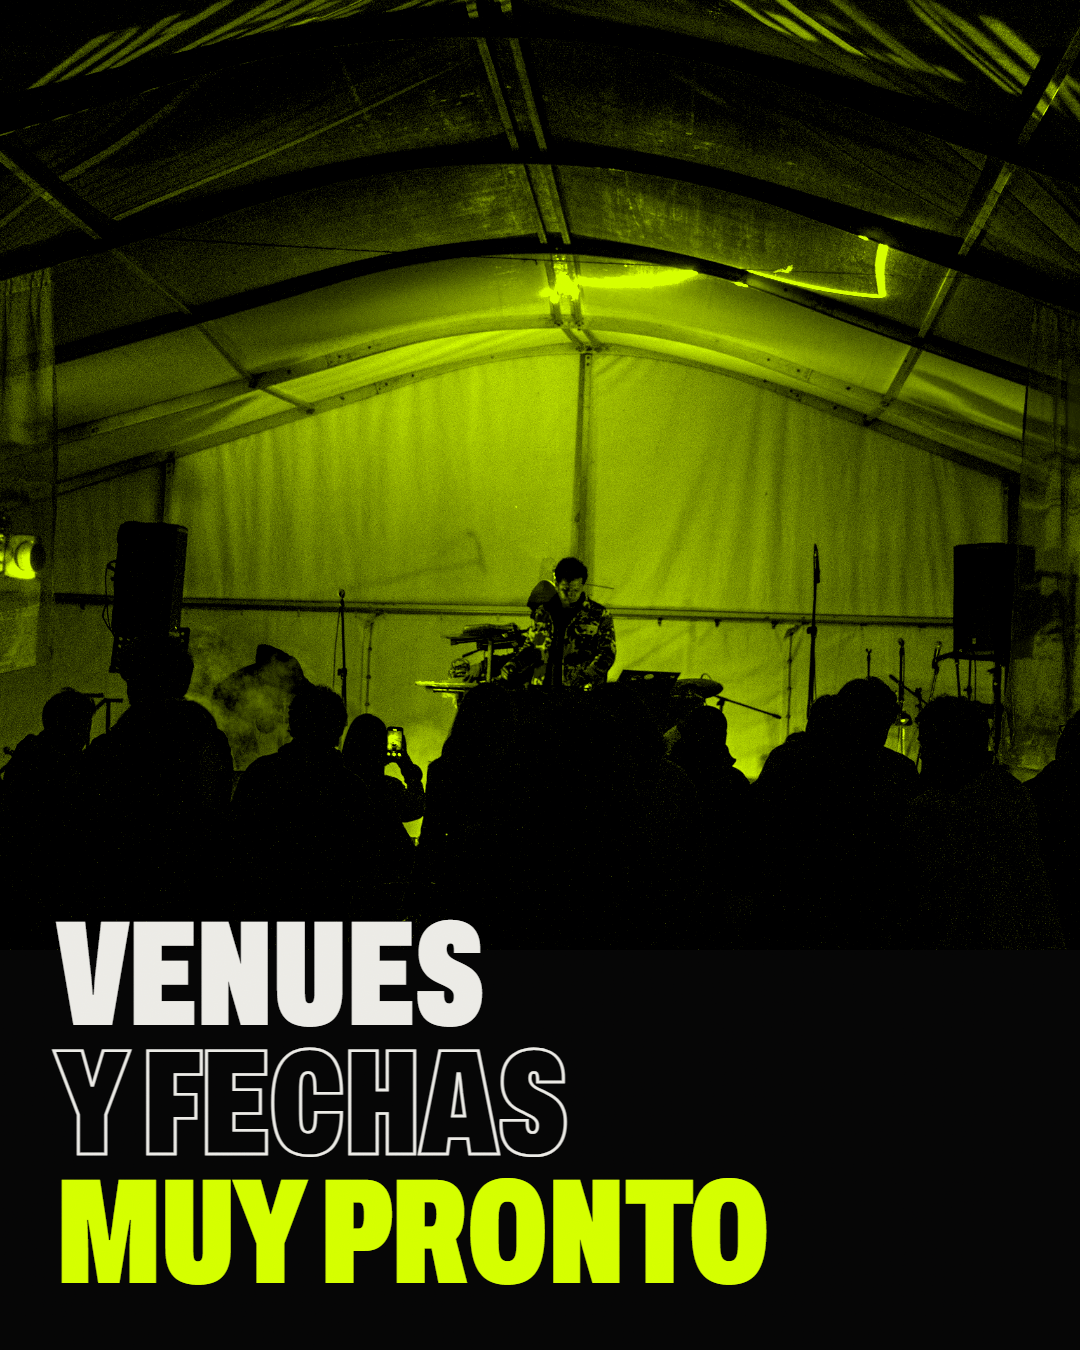
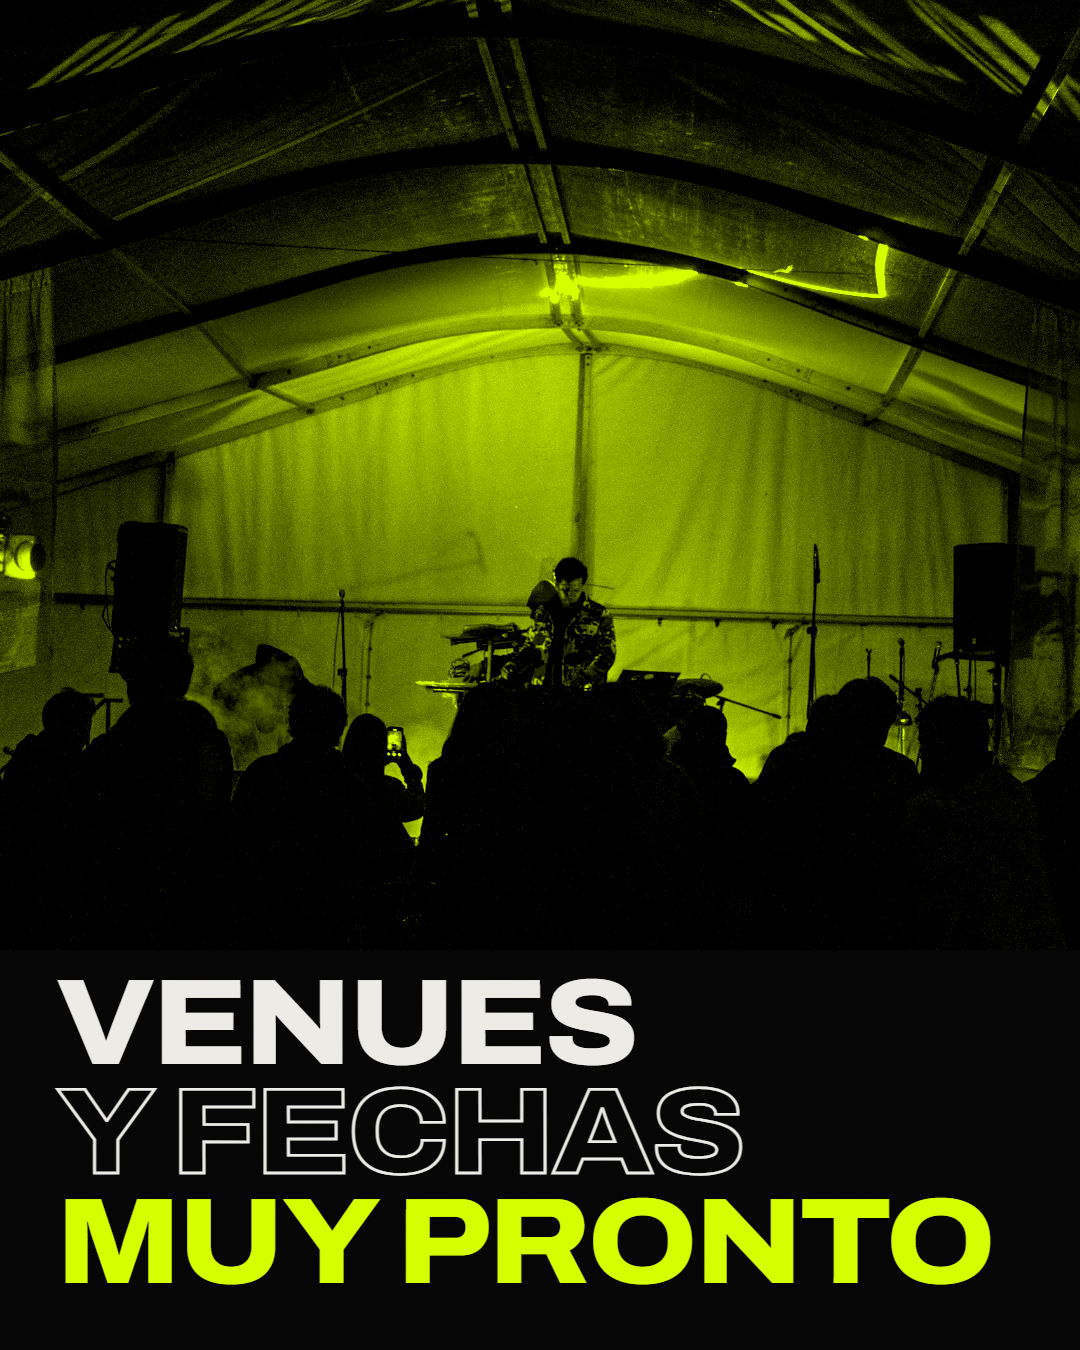
Takeover: tipografía ancha en las 3 slides + versión en enlaces de imágenes

Changed region(s): [[0.0306, 0.6844, 0.9167, 0.9644]]

diff --git a/ig/index.html b/ig/index.html
@@ -46,15 +46,15 @@ code{color:var(--acid);word-break:break-all}
   <p class="muted">Carrusel minimal de 3 slides en dos formatos: feed 4:5 y las mismas 3 como historias 9:16. Del 16 al 28 de noviembre de 2026, venues por anunciar.</p>
   <h2 style="font-size:32px">Feed · 4:5</h2>
   <div class="grid">
-    <figure><a class="open" href="takeover-feed-m1.png" target="_blank" rel="noopener" aria-label="Abrir en tamaño completo"><img src="takeover-feed-m1.png" alt="Da Get Up entre humo en duotono verde ácido, formato feed" loading="lazy"></a><figcaption><span class="mono">01</span><a class="dl mono" href="takeover-feed-m1.png" download>Bajar</a></figcaption></figure>
-    <figure><a class="open" href="takeover-feed-m2.png" target="_blank" rel="noopener" aria-label="Abrir en tamaño completo"><img src="takeover-feed-m2.png" alt="16 al 28 de noviembre de 2026, Medellín, formato feed" loading="lazy"></a><figcaption><span class="mono">02</span><a class="dl mono" href="takeover-feed-m2.png" download>Bajar</a></figcaption></figure>
-    <figure><a class="open" href="takeover-feed-m3.png" target="_blank" rel="noopener" aria-label="Abrir en tamaño completo"><img src="takeover-feed-m3.png" alt="escenario en vivo con público: venues y fechas muy pronto, formato feed" loading="lazy"></a><figcaption><span class="mono">03</span><a class="dl mono" href="takeover-feed-m3.png" download>Bajar</a></figcaption></figure>
+    <figure><a class="open" href="takeover-feed-m1.png?v=1520" target="_blank" rel="noopener" aria-label="Abrir en tamaño completo"><img src="takeover-feed-m1.png?v=1520" alt="Da Get Up entre humo en duotono verde ácido, formato feed" loading="lazy"></a><figcaption><span class="mono">01</span><a class="dl mono" href="takeover-feed-m1.png?v=1520" download>Bajar</a></figcaption></figure>
+    <figure><a class="open" href="takeover-feed-m2.png?v=1520" target="_blank" rel="noopener" aria-label="Abrir en tamaño completo"><img src="takeover-feed-m2.png?v=1520" alt="16 al 28 de noviembre de 2026, Medellín, formato feed" loading="lazy"></a><figcaption><span class="mono">02</span><a class="dl mono" href="takeover-feed-m2.png?v=1520" download>Bajar</a></figcaption></figure>
+    <figure><a class="open" href="takeover-feed-m3.png?v=1520" target="_blank" rel="noopener" aria-label="Abrir en tamaño completo"><img src="takeover-feed-m3.png?v=1520" alt="escenario en vivo con público: venues y fechas muy pronto, formato feed" loading="lazy"></a><figcaption><span class="mono">03</span><a class="dl mono" href="takeover-feed-m3.png?v=1520" download>Bajar</a></figcaption></figure>
   </div>
   <h2 style="font-size:32px">Historias · 9:16</h2>
   <div class="grid st">
-    <figure><a class="open" href="takeover-historia-n1.png" target="_blank" rel="noopener" aria-label="Abrir en tamaño completo"><img src="takeover-historia-n1.png" alt="Da Get Up entre humo en duotono verde ácido, formato historia" loading="lazy"></a><figcaption><span class="mono">01</span><a class="dl mono" href="takeover-historia-n1.png" download>Bajar</a></figcaption></figure>
-    <figure><a class="open" href="takeover-historia-n2.png" target="_blank" rel="noopener" aria-label="Abrir en tamaño completo"><img src="takeover-historia-n2.png" alt="16 al 28 de noviembre de 2026, Medellín, formato historia" loading="lazy"></a><figcaption><span class="mono">02</span><a class="dl mono" href="takeover-historia-n2.png" download>Bajar</a></figcaption></figure>
-    <figure><a class="open" href="takeover-historia-n3.png" target="_blank" rel="noopener" aria-label="Abrir en tamaño completo"><img src="takeover-historia-n3.png" alt="escenario en vivo con público: venues y fechas muy pronto, formato historia" loading="lazy"></a><figcaption><span class="mono">03</span><a class="dl mono" href="takeover-historia-n3.png" download>Bajar</a></figcaption></figure>
+    <figure><a class="open" href="takeover-historia-n1.png?v=1520" target="_blank" rel="noopener" aria-label="Abrir en tamaño completo"><img src="takeover-historia-n1.png?v=1520" alt="Da Get Up entre humo en duotono verde ácido, formato historia" loading="lazy"></a><figcaption><span class="mono">01</span><a class="dl mono" href="takeover-historia-n1.png?v=1520" download>Bajar</a></figcaption></figure>
+    <figure><a class="open" href="takeover-historia-n2.png?v=1520" target="_blank" rel="noopener" aria-label="Abrir en tamaño completo"><img src="takeover-historia-n2.png?v=1520" alt="16 al 28 de noviembre de 2026, Medellín, formato historia" loading="lazy"></a><figcaption><span class="mono">02</span><a class="dl mono" href="takeover-historia-n2.png?v=1520" download>Bajar</a></figcaption></figure>
+    <figure><a class="open" href="takeover-historia-n3.png?v=1520" target="_blank" rel="noopener" aria-label="Abrir en tamaño completo"><img src="takeover-historia-n3.png?v=1520" alt="escenario en vivo con público: venues y fechas muy pronto, formato historia" loading="lazy"></a><figcaption><span class="mono">03</span><a class="dl mono" href="takeover-historia-n3.png?v=1520" download>Bajar</a></figcaption></figure>
   </div>
   <h2 style="font-size:32px">Caption del post</h2>
   <div class="cap" id="cap2">MEDELLÍN TAKEOVER

diff --git a/ig/src/piece.html b/ig/src/piece.html
@@ -170,6 +170,7 @@ body{color:var(--bone);font-family:var(--cond);-webkit-font-smoothing:antialiase
 .mt .dk{position:absolute;inset:0;background:var(--acid)}
 .mt .dk img{width:100%;height:100%;object-fit:cover;filter:grayscale(1) contrast(1.45) brightness(.92);mix-blend-mode:multiply}
 .mt .big{position:absolute;left:56px;right:56px;font-weight:900;font-variation-settings:"wdth" 62;text-transform:uppercase;line-height:.8;letter-spacing:-.01em;margin:0;white-space:nowrap}
+.mt .big.wide{font-weight:800;font-variation-settings:"wdth" 112;letter-spacing:-.025em;line-height:.9}
 .mt .owl-ink{position:absolute;width:120px;filter:invert(1)}
 </style>
 
@@ -177,30 +178,30 @@ body{color:var(--bone);font-family:var(--cond);-webkit-font-smoothing:antialiase
 <section class="piece mt" id="m1">
   <div class="dk" style="bottom:500px"><img src="img/cover-07251.webp" style="object-position:50% 18%"></div>
   <img class="owl-ink" src="../../assets/img/owl.png" style="right:60px;top:60px">
-  <p class="big" style="bottom:52px;font-size:166px;line-height:.86"><span style="color:var(--bone)">Da Get Up</span><br><span style="color:transparent;-webkit-text-stroke:2.5px var(--bone)">Medellín</span><br><span style="color:var(--acid)">Takeover</span></p>
+  <p class="big wide" style="bottom:52px;font-size:142px;line-height:.9"><span style="color:var(--bone)">Da Get Up</span><br><span style="color:transparent;-webkit-text-stroke:2.5px var(--bone)">Medellín</span><br><span style="color:var(--acid)">Takeover</span></p>
 </section>
 <section class="piece story mt" id="n1">
   <div class="dk" style="bottom:750px"><img src="img/cover-07251.webp" style="object-position:50% 18%"></div>
   <img class="owl-ink" src="../../assets/img/owl.png" style="right:60px;top:170px">
-  <p class="big" style="bottom:290px;font-size:190px;line-height:.86"><span style="color:var(--bone)">Da Get Up</span><br><span style="color:transparent;-webkit-text-stroke:2.5px var(--bone)">Medellín</span><br><span style="color:var(--acid)">Takeover</span></p>
+  <p class="big wide" style="bottom:290px;font-size:142px;line-height:.9"><span style="color:var(--bone)">Da Get Up</span><br><span style="color:transparent;-webkit-text-stroke:2.5px var(--bone)">Medellín</span><br><span style="color:var(--acid)">Takeover</span></p>
 </section>
 
 <!-- 2 · La fecha -->
 <section class="piece mt" id="m2">
-  <p class="big acid" style="top:470px;font-size:300px">16—28.11</p>
+  <p class="big wide acid" style="top:560px;font-size:176px">16—28.11</p>
 </section>
 <section class="piece story mt" id="n2">
-  <p class="big acid" style="top:790px;font-size:300px">16—28.11</p>
+  <p class="big wide acid" style="top:870px;font-size:176px">16—28.11</p>
 </section>
 
 <!-- 3 · Booking -->
 <section class="piece mt" id="m3">
   <div class="dk" style="bottom:400px"><img src="img/close-07249.webp" style="object-position:50% 62%;filter:grayscale(1) contrast(1.35) brightness(1.3)"></div>
-  <p class="big" style="bottom:52px;font-size:150px;line-height:.86"><span style="color:var(--bone)">Venues</span><br><span style="color:transparent;-webkit-text-stroke:2.5px var(--bone)">y fechas</span><br><span style="color:var(--acid)">muy pronto</span></p>
+  <p class="big wide" style="bottom:52px;font-size:122px;line-height:.9"><span style="color:var(--bone)">Venues</span><br><span style="color:transparent;-webkit-text-stroke:2.5px var(--bone)">y fechas</span><br><span style="color:var(--acid)">muy pronto</span></p>
 </section>
 <section class="piece story mt" id="n3">
   <div class="dk" style="bottom:660px"><img src="img/close-07249.webp" style="object-position:50% 62%;filter:grayscale(1) contrast(1.35) brightness(1.3)"></div>
-  <p class="big" style="bottom:290px;font-size:190px;line-height:.86"><span style="color:var(--bone)">Venues</span><br><span style="color:transparent;-webkit-text-stroke:2.5px var(--bone)">y fechas</span><br><span style="color:var(--acid)">muy pronto</span></p>
+  <p class="big wide" style="bottom:290px;font-size:122px;line-height:.9"><span style="color:var(--bone)">Venues</span><br><span style="color:transparent;-webkit-text-stroke:2.5px var(--bone)">y fechas</span><br><span style="color:var(--acid)">muy pronto</span></p>
 </section>
 
 <script>
